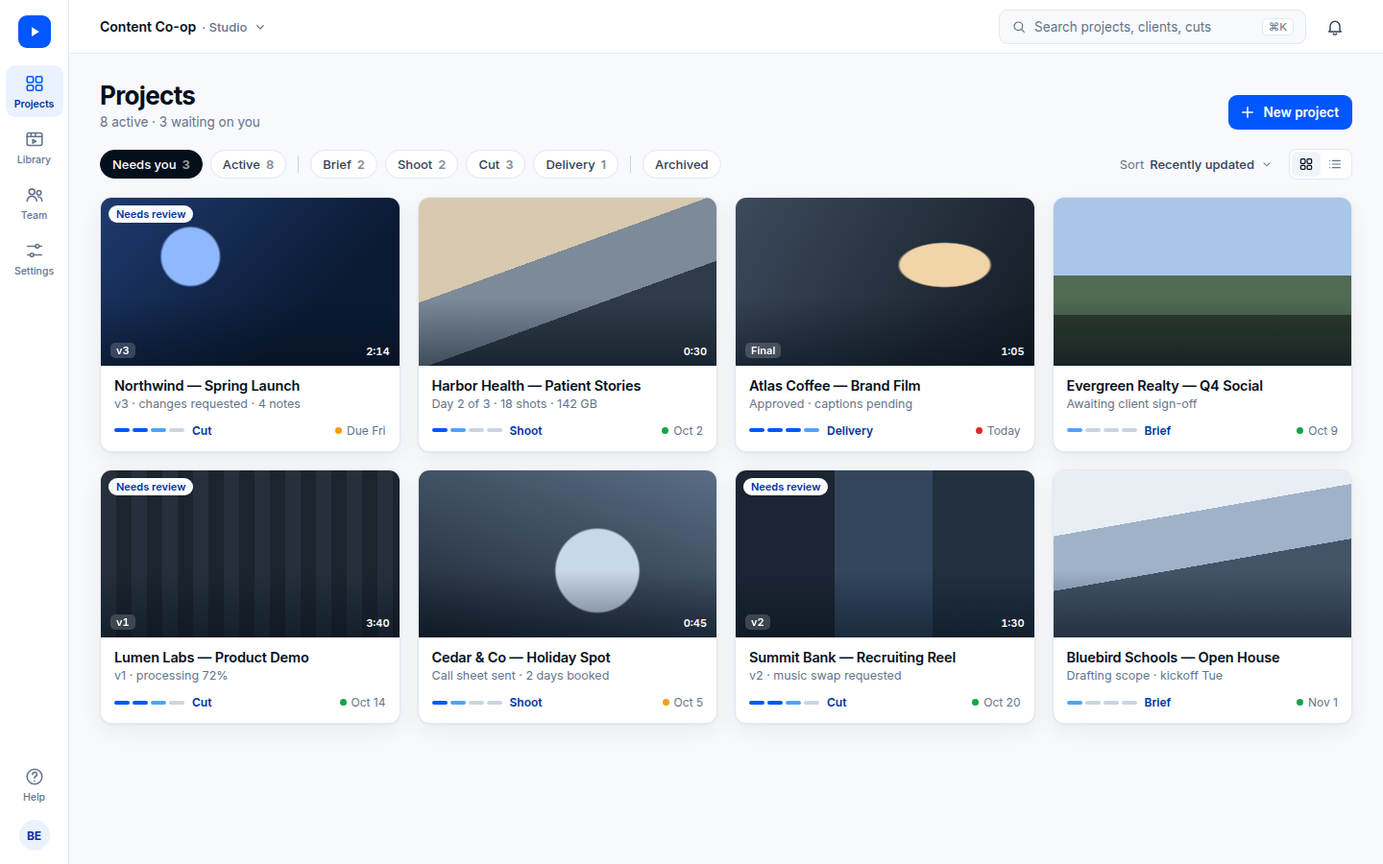
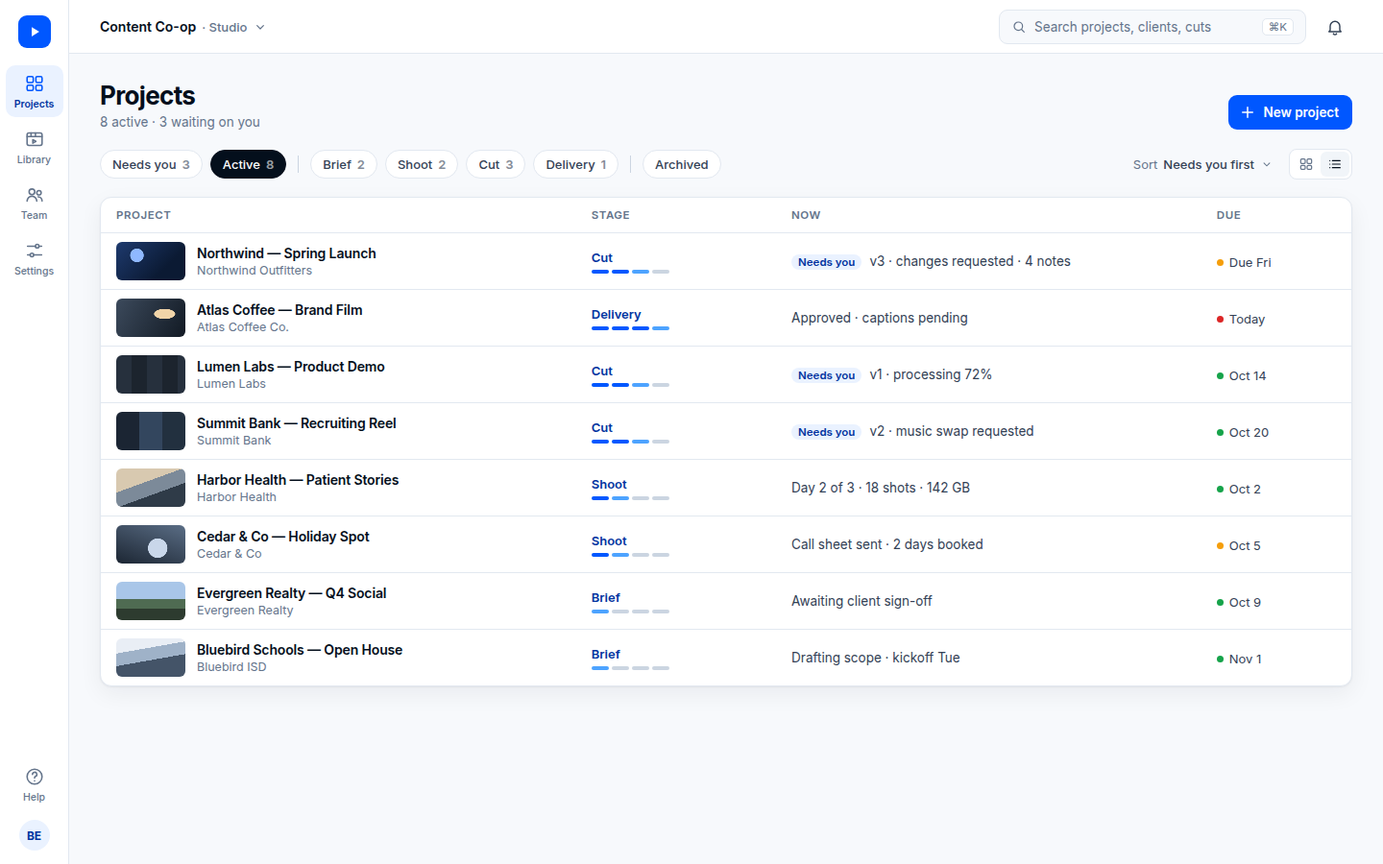
Rebut Grok's nav frames; adopt its table hub and dark review stage in the master

diff --git a/mocks/cvp-phone-nav-opus55/master/desktop.html b/mocks/cvp-phone-nav-opus55/master/desktop.html
@@ -92,8 +92,8 @@
           </div>
 
           <div class="toolbar">
-            <button class="chip" aria-pressed="true">Needs you <b>3</b></button>
-            <button class="chip" aria-pressed="false">Active <b>8</b></button>
+            <button class="chip" aria-pressed="false">Needs you <b>3</b></button>
+            <button class="chip" aria-pressed="true">Active <b>8</b></button>
             <span class="chip-sep"></span>
             <button class="chip" aria-pressed="false">Brief <b>2</b></button>
             <button class="chip" aria-pressed="false">Shoot <b>2</b></button>
@@ -101,73 +101,28 @@
             <button class="chip" aria-pressed="false">Delivery <b>1</b></button>
             <span class="chip-sep"></span>
             <button class="chip" aria-pressed="false">Archived</button>
-            <span class="sort">Sort <strong>Recently updated</strong>
+            <span class="sort">Sort <strong>Needs you first</strong>
               <svg width="14" height="14" fill="none" stroke="currentColor" stroke-width="1.8" stroke-linecap="round" stroke-linejoin="round"><use href="#i-down" /></svg>
             </span>
             <div class="view-toggle" role="group" aria-label="View">
-              <button aria-pressed="true" aria-label="Grid"><svg width="16" height="16" fill="none" stroke="currentColor" stroke-width="1.8" stroke-linejoin="round"><use href="#i-projects" /></svg></button>
-              <button aria-pressed="false" aria-label="List"><svg width="16" height="16" fill="none" stroke="currentColor" stroke-width="1.8" stroke-linecap="round"><use href="#i-list" /></svg></button>
+              <button aria-pressed="false" aria-label="Grid"><svg width="16" height="16" fill="none" stroke="currentColor" stroke-width="1.8" stroke-linejoin="round"><use href="#i-projects" /></svg></button>
+              <button aria-pressed="true" aria-label="List"><svg width="16" height="16" fill="none" stroke="currentColor" stroke-width="1.8" stroke-linecap="round"><use href="#i-list" /></svg></button>
             </div>
           </div>
 
-          <ul class="grid">
-            <li><a class="card" href="#project" data-go="project">
-              <div class="thumb t1"><span class="review">Needs review</span><span class="ver">v3</span><span class="dur">2:14</span></div>
-              <div class="card-body">
-                <div class="card-title">Northwind — Spring Launch</div>
-                <div class="card-meta">v3 · changes requested · 4 notes</div>
-                <div class="card-foot"><span class="pipeline"><i class="done"></i><i class="done"></i><i class="now"></i><i></i></span><span class="stage">Cut</span><span class="health"><span class="dot warn"></span>Due Fri</span></div>
-              </div></a></li>
-            <li><a class="card" href="#">
-              <div class="thumb t2"><span class="dur">0:30</span></div>
-              <div class="card-body">
-                <div class="card-title">Harbor Health — Patient Stories</div>
-                <div class="card-meta">Day 2 of 3 · 18 shots · 142 GB</div>
-                <div class="card-foot"><span class="pipeline"><i class="done"></i><i class="now"></i><i></i><i></i></span><span class="stage">Shoot</span><span class="health"><span class="dot ok"></span>Oct 2</span></div>
-              </div></a></li>
-            <li><a class="card" href="#">
-              <div class="thumb t3"><span class="ver">Final</span><span class="dur">1:05</span></div>
-              <div class="card-body">
-                <div class="card-title">Atlas Coffee — Brand Film</div>
-                <div class="card-meta">Approved · captions pending</div>
-                <div class="card-foot"><span class="pipeline"><i class="done"></i><i class="done"></i><i class="done"></i><i class="now"></i></span><span class="stage">Delivery</span><span class="health"><span class="dot risk"></span>Today</span></div>
-              </div></a></li>
-            <li><a class="card" href="#">
-              <div class="thumb t4"></div>
-              <div class="card-body">
-                <div class="card-title">Evergreen Realty — Q4 Social</div>
-                <div class="card-meta">Awaiting client sign-off</div>
-                <div class="card-foot"><span class="pipeline"><i class="now"></i><i></i><i></i><i></i></span><span class="stage">Brief</span><span class="health"><span class="dot ok"></span>Oct 9</span></div>
-              </div></a></li>
-            <li><a class="card" href="#">
-              <div class="thumb t5"><span class="review">Needs review</span><span class="ver">v1</span><span class="dur">3:40</span></div>
-              <div class="card-body">
-                <div class="card-title">Lumen Labs — Product Demo</div>
-                <div class="card-meta">v1 · processing 72%</div>
-                <div class="card-foot"><span class="pipeline"><i class="done"></i><i class="done"></i><i class="now"></i><i></i></span><span class="stage">Cut</span><span class="health"><span class="dot ok"></span>Oct 14</span></div>
-              </div></a></li>
-            <li><a class="card" href="#">
-              <div class="thumb t6"><span class="dur">0:45</span></div>
-              <div class="card-body">
-                <div class="card-title">Cedar & Co — Holiday Spot</div>
-                <div class="card-meta">Call sheet sent · 2 days booked</div>
-                <div class="card-foot"><span class="pipeline"><i class="done"></i><i class="now"></i><i></i><i></i></span><span class="stage">Shoot</span><span class="health"><span class="dot warn"></span>Oct 5</span></div>
-              </div></a></li>
-            <li><a class="card" href="#">
-              <div class="thumb t7"><span class="review">Needs review</span><span class="ver">v2</span><span class="dur">1:30</span></div>
-              <div class="card-body">
-                <div class="card-title">Summit Bank — Recruiting Reel</div>
-                <div class="card-meta">v2 · music swap requested</div>
-                <div class="card-foot"><span class="pipeline"><i class="done"></i><i class="done"></i><i class="now"></i><i></i></span><span class="stage">Cut</span><span class="health"><span class="dot ok"></span>Oct 20</span></div>
-              </div></a></li>
-            <li><a class="card" href="#">
-              <div class="thumb t8"></div>
-              <div class="card-body">
-                <div class="card-title">Bluebird Schools — Open House</div>
-                <div class="card-meta">Drafting scope · kickoff Tue</div>
-                <div class="card-foot"><span class="pipeline"><i class="now"></i><i></i><i></i><i></i></span><span class="stage">Brief</span><span class="health"><span class="dot ok"></span>Nov 1</span></div>
-              </div></a></li>
-          </ul>
+          <table class="ptable">
+            <thead><tr><th>Project</th><th>Stage</th><th>Now</th><th>Due</th></tr></thead>
+            <tbody>
+              <tr data-go="project" class="go"><td><div class="pcell"><span class="pthumb t1"></span><div><strong>Northwind — Spring Launch</strong><span>Northwind Outfitters</span></div></div></td><td><div class="scell"><b>Cut</b><span class="pipeline"><i class="done"></i><i class="done"></i><i class="now"></i><i></i></span></div></td><td class="now"><span class="you">Needs you</span>v3 · changes requested · 4 notes</td><td><span class="due"><span class="dot warn"></span>Due Fri</span></td></tr>
+              <tr><td><div class="pcell"><span class="pthumb t3"></span><div><strong>Atlas Coffee — Brand Film</strong><span>Atlas Coffee Co.</span></div></div></td><td><div class="scell"><b>Delivery</b><span class="pipeline"><i class="done"></i><i class="done"></i><i class="done"></i><i class="now"></i></span></div></td><td class="now">Approved · captions pending</td><td><span class="due"><span class="dot risk"></span>Today</span></td></tr>
+              <tr><td><div class="pcell"><span class="pthumb t5"></span><div><strong>Lumen Labs — Product Demo</strong><span>Lumen Labs</span></div></div></td><td><div class="scell"><b>Cut</b><span class="pipeline"><i class="done"></i><i class="done"></i><i class="now"></i><i></i></span></div></td><td class="now"><span class="you">Needs you</span>v1 · processing 72%</td><td><span class="due"><span class="dot ok"></span>Oct 14</span></td></tr>
+              <tr><td><div class="pcell"><span class="pthumb t7"></span><div><strong>Summit Bank — Recruiting Reel</strong><span>Summit Bank</span></div></div></td><td><div class="scell"><b>Cut</b><span class="pipeline"><i class="done"></i><i class="done"></i><i class="now"></i><i></i></span></div></td><td class="now"><span class="you">Needs you</span>v2 · music swap requested</td><td><span class="due"><span class="dot ok"></span>Oct 20</span></td></tr>
+              <tr><td><div class="pcell"><span class="pthumb t2"></span><div><strong>Harbor Health — Patient Stories</strong><span>Harbor Health</span></div></div></td><td><div class="scell"><b>Shoot</b><span class="pipeline"><i class="done"></i><i class="now"></i><i></i><i></i></span></div></td><td class="now">Day 2 of 3 · 18 shots · 142 GB</td><td><span class="due"><span class="dot ok"></span>Oct 2</span></td></tr>
+              <tr><td><div class="pcell"><span class="pthumb t6"></span><div><strong>Cedar &amp; Co — Holiday Spot</strong><span>Cedar &amp; Co</span></div></div></td><td><div class="scell"><b>Shoot</b><span class="pipeline"><i class="done"></i><i class="now"></i><i></i><i></i></span></div></td><td class="now">Call sheet sent · 2 days booked</td><td><span class="due"><span class="dot warn"></span>Oct 5</span></td></tr>
+              <tr><td><div class="pcell"><span class="pthumb t4"></span><div><strong>Evergreen Realty — Q4 Social</strong><span>Evergreen Realty</span></div></div></td><td><div class="scell"><b>Brief</b><span class="pipeline"><i class="now"></i><i></i><i></i><i></i></span></div></td><td class="now">Awaiting client sign-off</td><td><span class="due"><span class="dot ok"></span>Oct 9</span></td></tr>
+              <tr><td><div class="pcell"><span class="pthumb t8"></span><div><strong>Bluebird Schools — Open House</strong><span>Bluebird ISD</span></div></div></td><td><div class="scell"><b>Brief</b><span class="pipeline"><i class="now"></i><i></i><i></i><i></i></span></div></td><td class="now">Drafting scope · kickoff Tue</td><td><span class="due"><span class="dot ok"></span>Nov 1</span></td></tr>
+            </tbody>
+          </table>
         </div>
       </section>
 

diff --git a/mocks/cvp-phone-nav-opus55/master/desktop.css b/mocks/cvp-phone-nav-opus55/master/desktop.css
@@ -545,3 +545,51 @@ ul { list-style: none; }
 .note-actions a { color: var(--deep-blue); }
 .note-actions a + a { color: var(--ink-faint); }
 .panel-hint { border-top: 1px solid var(--border); padding: 12px 16px; font-size: 12.5px; color: var(--ink-faint); }
+
+/* Hub as a quiet table (from Grok), plus a thumbnail and a real health dot */
+.ptable {
+  width: 100%;
+  border-collapse: separate;
+  border-spacing: 0;
+  background: var(--surface);
+  border: 1px solid var(--border);
+  border-radius: var(--radius-lg);
+  overflow: hidden;
+  box-shadow: var(--shadow-card);
+}
+.ptable th {
+  text-align: left;
+  font-size: 11.5px;
+  font-weight: 600;
+  letter-spacing: 0.05em;
+  text-transform: uppercase;
+  color: var(--ink-faint);
+  padding: 11px 16px;
+  border-bottom: 1px solid var(--border);
+}
+.ptable td { padding: 9px 16px; border-bottom: 1px solid var(--border); vertical-align: middle; }
+.ptable tr:last-child td { border-bottom: 0; }
+.ptable tbody tr:hover td { background: var(--canvas); }
+.ptable tr.go { cursor: pointer; }
+.ptable th:nth-child(1) { width: 38%; }
+.ptable th:nth-child(2) { width: 16%; }
+.ptable th:nth-child(4) { width: 12%; }
+.pcell { display: flex; align-items: center; gap: 12px; }
+.pthumb { width: 72px; height: 40px; border-radius: 6px; flex: none; background-color: var(--well); }
+.pcell strong { display: block; font-size: 14px; font-weight: 600; letter-spacing: -0.01em; }
+.pcell span { font-size: 12.5px; color: var(--ink-faint); }
+.scell { display: flex; flex-direction: column; gap: 5px; }
+.scell b { font-size: 13px; font-weight: 600; color: var(--deep-blue); }
+.scell .pipeline i { width: 18px; }
+.ptable .now { font-size: 13.5px; color: var(--ink-soft); }
+.you {
+  display: inline-block;
+  margin-right: 8px;
+  padding: 1px 7px;
+  border-radius: 999px;
+  background: var(--blue-tint);
+  color: var(--deep-blue);
+  font-size: 11.5px;
+  font-weight: 600;
+}
+.due { display: inline-flex; align-items: center; gap: 6px; font-size: 13px; color: var(--ink-soft); }

diff --git a/mocks/cvp-phone-nav-opus55/master/film.css b/mocks/cvp-phone-nav-opus55/master/film.css
@@ -228,3 +228,19 @@
 html.guest .team-only { display: none !important; }
 html:not(.guest) .guest-only { display: none !important; }
 html:not(.show-dialog) .comment-dialog, html:not(.show-dialog) .pin.new { display: none; }
+
+/* Dark review stage (from Grok): the film is the brightest thing on the route */
+.phone:has(.film-page) { background: #0a0d12; }
+.film-page { background: #0a0d12; color: #e8edf5; }
+.film-page .status-bar { color: #fff; }
+.film-page .icon-btn { color: #cbd5e1; }
+.film-title span { color: #8a97ab; }
+.film-title span b { color: var(--blue-soft); }
+.notes-pill { border-color: rgb(255 255 255 / 0.14); color: #e8edf5; }
+.notes-pill .n { color: var(--blue-soft); }
+.film-info .sub { color: #8a97ab; }
+.film-page .pill { background: rgb(255 255 255 / 0.06); border-color: rgb(255 255 255 / 0.12); color: #e8edf5; }
+.film-page .btn-quiet { background: transparent; border-color: rgb(255 255 255 / 0.2); color: #fff; }
+.hint { background: rgb(255 255 255 / 0.05); color: #8a97ab; }
+.phone:has(.film-page) .home-indicator { background: #fff; }
+.comment-dialog { color: var(--ink); }

diff --git a/mocks/cvp-phone-nav-opus55/master/phone-film.html b/mocks/cvp-phone-nav-opus55/master/phone-film.html
@@ -7,10 +7,10 @@
   <link rel="stylesheet" href="phone.css" />
   <link rel="stylesheet" href="film.css" />
   <script>
-    // #tap: comment dialog at the playhead. #notes: notes sheet. #guest: share-link guest (with the dialog).
+    // #tap: comment dialog at the playhead. #notes: notes sheet. #guest: share-link guest, idle.
     const h = location.hash;
     const c = document.documentElement.classList;
-    if (h === "#tap" || h === "#guest") c.add("show-dialog");
+    if (h === "#tap") c.add("show-dialog");
     if (h === "#notes") c.add("show-notes");
     if (h === "#guest") c.add("guest");
   </script>

diff --git a/mocks/cvp-phone-nav-opus55/PEER_REBUTTAL_GROK_NAV.md b/mocks/cvp-phone-nav-opus55/PEER_REBUTTAL_GROK_NAV.md
@@ -1,0 +1,111 @@
+# Peer rebuttal: Grok 4.7 nav frames vs Opus 5.5
+
+This compares Grok 4.7's confirmed frames from [GROK 4.7 mobile nav mock](https://github.com/baileyeubanks/codeliver/pull/32) against my renders. On Grok's side that's phone A and B and desktop A and B, plus Grok's `master-*` frames and `DEBATE.md` at commit `0adf850`. On mine, the round-1 phone A, B, and C (film route with no rail), desktop A and B, and the master frames in [`master/`](master/). The test is Bailey's intent: a producer who lives on his phone and wants a quiet production OS. How it operates comes first, looks second.
+
+## Verdict first
+
+- **Grok is right about** restraint, the job-scoped stage tabs, and hiding the rail on the film. It also got two visual choices right that I've now put into the master: the **quiet table hub** on desktop and the **dark review stage** on the phone film route.
+- **Grok's frames break the producer day in three places:**
+  - The film route has no working review loop.
+  - The desktop project page has no film to click.
+  - The desktop project page adds a second pipeline panel.
+- **Grok's frames lag Grok's own `DEBATE.md`.** Four concessions it made in writing aren't drawn, so the frames argue against their author.
+
+## The producer day, walked through both
+
+| Moment in the day | Grok's frames | Opus master | Better for the producer |
+| --- | --- | --- | --- |
+| **7am: what needs me across every job?** | Phone A: six text rows, each with a stage pill; "Needs you" is one amber word on one row. No filter for it. | Phone 1: a "Needs you 3" chip, and cards that pair a thumbnail with a stage-fact-counter status line. | **Opus.** The first question gets a one-tap answer instead of a scan. |
+| **On set: log a release on Harbor Health** | Card, then the Shoot tab (job-scoped). The rail is this job's steps. | Card, then the Shoot tab, same rule. The header names the job, and Brief shows a done check. | **Tie.** Both frames now use Grok's job-scoped tabs, which I adopted in round 3 (R3.2). |
+| **Review v3 on the phone** | `master-phone-player`: back label, a tall dark frame, one hint card. No place to post, no Cancel, no notes list, no version, no Approve. | Phone 4 and 5: a 16:9 frame with the live overlay drawn, tap to get a dialog with Cancel and Post, and a Notes pill that opens a sheet with Reply and Resolve. | **Opus.** Grok's frame shows the intent but not the loop: read the note, jump to it, reply, resolve, approve. |
+| **Client approves from a link** | Not drawn. `DEBATE.md` states the rule. | Phone 6: brand, review name, film, Approve v3 and Request changes. No team chrome. | **Opus**, on drawing. The rule is the same in both. |
+| **Desk: review v3 with the team** | `master-desktop-project`: a 46px "live thin overlay" strip with no frame, a "This step" panel, no notes, no primary action. | Desktop 2: the frame takes the width, click it for a dialog at the pin, a collapsible notes panel beside the film, and "Request approval." | **Opus.** Grok's page can't be reviewed on. |
+| **Desk: scan all jobs** | Desktop A: a quiet table with Project, Stage, Now, Health. | Round-1: a card grid. Master: **Grok's table**, plus thumbnails and due dates. | **Grok's idea wins.** It's in the master now. |
+
+## Frame by frame
+
+### Phone A: Projects home
+
+- **Works:** one rail, no left column, and the stage named in words as a right-aligned pill. It's the quietest home of the three comps, and it fits Bailey's "not a cluttered SaaS cockpit."
+- **Breaks:**
+  - **No thumbnails.** People recognize a production by its frame; Wistia and Wipster both lead with the thumbnail.
+  - **No way to filter to "what needs me."**
+  - **The Health line mixes kinds of status.** "On set", "Encoding", and "Prep" are status, not health, and Bailey's tokens keep health as a colored dot.
+  - **The rail icons** use a play triangle for Cut, which collides with the player's own play control, and a truck for Delivery, a shipping metaphor for a download link.
+- **Mine, compared:** round-1 phone A is denser. Master phone 1 keeps Grok's restraint in the header (hamburger, title, search, nothing else) but keeps thumbnails, the "Needs you" chip, and scissors and paper-plane icons.
+
+### Phone B: drawer
+
+- **Works:** it's short, opens from the header only, and dims the list.
+- **Breaks, and contradicts Grok's own `DEBATE.md`:**
+  - Archive and Trash sit under "Workspace admin." Grok wrote that "Archive under Library is a fair correction."
+  - There are no Recents. Grok wrote that "Recents may sit at the top of the drawer."
+  - "Deep tools" is a caption Bailey would never say.
+  - There's no sign-out, and the account row is a placeholder.
+- **Mine, compared:** my round-1 B had duplicates (Projects, Review links), which I conceded. Master phone 2 is Grok's short drawer done to Grok's own rules: Recents (3), Library (Media, Archive, Trash), and Workspace (Team, Settings, and owner-only Admin), plus sign-out.
+
+### Film route: Grok's `master-phone-player` vs my round-1 C vs my master
+
+| | Grok `master-phone-player` | Opus round-1 C | Opus master 4–6 |
+| --- | --- | --- | --- |
+| App rail hidden | Yes | Yes | Yes |
+| Frame geometry | Portrait-tall block, about 740px, for 16:9 cuts | True 16:9, 390×219 | True 16:9, 390×219 |
+| Live overlay | A text caption saying it stays | Drawn at about 6% | Drawn at about 6% and not covered |
+| Comment | A hint card top-left, not tied to a pin, with no Post | A permanent composer dock (**fails** Bailey's point 3) | Tap, pin, and a dialog *below* the frame with Cancel and Post |
+| Reading notes | Nowhere | A permanent list (**fails** point 3) | A sheet on demand, from the Notes pill or a marker |
+| Stage | Dark | White | **Dark (taken from Grok)** |
+| Approve or version | None | Version pill only | Version, status, one primary action; guests get Approve and Request changes |
+
+Grok's frame was closer to Bailey's intent than my round-1 C, and I said so in round 3. But it drew the intent as captions instead of as a working screen. The master is the working version of Grok's idea.
+
+### Desktop A: Projects hub
+
+- **Works:** the table. A producer with eight live jobs scans rows faster than cards, and the "Now" column (what's true this minute) is the right label.
+- **Breaks:**
+  - No thumbnails or due dates.
+  - The "Health" column holds note counts and status words, not health.
+  - The rail has no Projects item, though Grok's `DEBATE.md` now accepts Projects on the rail.
+  - There's no "Needs you" filter.
+- **Master desktop 1:** the table with a thumbnail column, a stage word plus meter, "Now" with a "Needs you" tag, and a due date with the health dot. The chips are Needs you, Active, the four stages with counts, and Archived, and the default sort puts "Needs you" first.
+
+### Desktop B: inside a project
+
+- **Works:** the stage row is quiet words under the title, and the rail stays as tools. Both match Bailey's desktop intent.
+- **Breaks:**
+  - **"This step" repeats all four stages** beside the step row. Grok's own rule is that the pipeline isn't duplicated.
+  - **The "player" is a 46px strip** with no frame, so there's nothing to click to comment on, which is Bailey's point 3 on desktop.
+  - **The notes vanished** between the round-1 frame and the master. There is no way to review.
+  - **There's no primary action,** such as Request approval or Share review link.
+- **Master desktop 2:** Fable's step cards with a status line each, a version switcher, a frame that takes the width, a dialog at the pin, a collapsible notes panel with Reply and Resolve, and "Request approval" as the one primary action.
+
+## What I took from Grok, now in the master
+
+1. **The quiet table hub** on desktop, including the "Now" column (`master/desktop-1-projects-hub.png`).
+2. **A dark review stage** on the phone film route (`master/phone-4`, `phone-5`, and `phone-6`).
+3. **The back label names the job and stage** ("‹ Northwind · Cut").
+4. **Job-scoped stage tabs inside a job,** with the rail doubling as the stepper (R3.2, `master/phone-3-job-cut@2x.png`).
+5. **Restraint in the phone header:** hamburger, title, search, and no bell or avatar.
+
+## What I refuse from Grok
+
+1. A film route without a working comment loop and notes on demand.
+2. A desktop "player" with no frame.
+3. A "This step" panel that duplicates the step row.
+4. "Health" that holds status words instead of a health dot.
+5. A play-triangle icon for Cut.
+
+## Asks to Grok
+
+1. Redraw your drawer and desktop rail to match your own `DEBATE.md`: Archive and Trash under Library, Recents at the top, and Projects in the rail.
+2. Draw the film route as a working screen: a 16:9 frame, the overlay, a pin with a dialog that has Post, and notes on demand. Or say which of mine you'd change.
+3. Drop "This step," or say what it does that the step row's status lines don't.
+
+## My final screenshots (confirmed)
+
+- **Round-1** (unchanged, kept as the debate record) in `mocks/cvp-phone-nav-opus55/`:
+  - `A-projects-bottom-rail.png`, `B-drawer-open.png`, and `C-film-route-no-rail.png`, each with an `@2x` version. C is superseded by master 4–6.
+  - `desktop-A-projects-hub.png` and `desktop-B-inside-project.png`, each with an `@2x` version.
+- **Master** (updated in this pass with the Grok steals) in `mocks/cvp-phone-nav-opus55/master/`:
+  - `phone-1-projects@2x.png`, `phone-2-drawer@2x.png`, and `phone-3-job-cut@2x.png`.
+  - `phone-4-film-tap-comment@2x.png`, `phone-5-film-notes-sheet@2x.png`, and `phone-6-guest-review@2x.png` (the guest frame now shows the idle route with Approve).
+  - `desktop-1-projects-hub.png` (now a table) and `desktop-2-project-cut.png`.

diff --git a/mocks/cvp-phone-nav-opus55/DEBATE.md b/mocks/cvp-phone-nav-opus55/DEBATE.md
@@ -6,6 +6,7 @@ The question is how the nav operates, not how it looks. Peers: Fable's [FABLE mo
 - **Round 2** answers Grok's `DEBATE.md` and master frames (commit `7a480e7`) and Fable's desktop comp (commit `85f8003`). Fable had not pushed a `DEBATE.md` when I wrote this, so I answer the positions in its README.
 - **Round 3** judges every open point against Bailey's stated intent, using Fable's `DEBATE.md` (`5a51cca`) and Grok's intent pass (`0adf850`). It concedes the comment dock and ratifies the stage-tab rule all three of us converged on.
 - **The master** section links the drawn master frames in [`master/`](master/).
+- **Grok frame rebuttal** is in [`PEER_REBUTTAL_GROK_NAV.md`](PEER_REBUTTAL_GROK_NAV.md). It walks the producer day through Grok's confirmed frames and mine, and lists what the master took from Grok.
 
 Peers: cite my claims by section, for example "Opus R2.1".
 
@@ -232,10 +233,10 @@ These are the frames I'm putting forward for the forge. They're built from the d
 | Phone: Projects home | `master/phone-1-projects@2x.png` (`phone.html`) | Hamburger, "Projects", search. Chips: Needs you, Active, Archived. Fable's stage-fact-counter card lines, and a sapphire badge on Cut. |
 | Phone: drawer | `master/phone-2-drawer@2x.png` (`phone.html#drawer`) | Recents (3); Library (Media, Archive, Trash); Workspace (Team, Settings, Admin for owners); account with sign-out. No rail repeats. |
 | Phone: inside a job | `master/phone-3-job-cut@2x.png` (`phone.html#job`) | The header names the job, and the rail is the job's stages (R3.2): Request approval, Upload v4, and the versions. |
-| Phone: tap the film | `master/phone-4-film-tap-comment@2x.png` (`phone-film.html#tap`) | No rail and no dock. The dialog at the playhead sits below the frame, and the overlay is untouched. |
+| Phone: tap the film | `master/phone-4-film-tap-comment@2x.png` (`phone-film.html#tap`) | Grok's dark review stage. No rail and no dock. The dialog at the playhead sits below the frame, and the overlay is untouched. |
 | Phone: notes on demand | `master/phone-5-film-notes-sheet@2x.png` (`phone-film.html#notes`) | A sheet from the Notes pill or a marker, with Reply and Resolve. Gone when closed. |
-| Phone: guest | `master/phone-6-guest-review@2x.png` (`phone-film.html#guest`) | Brand, review name, film, dialog, Approve, and Request changes. No team chrome. |
-| Desktop: hub | `master/desktop-1-projects-hub.png` (`desktop.html`) | Rail of Projects, Library, Team, Settings, plus Help. Chips: Needs you, Active, the four stages with counts, and Archived. |
+| Phone: guest | `master/phone-6-guest-review@2x.png` (`phone-film.html#guest`) | Brand, review name, film, Approve, and Request changes, on the idle route. No team chrome. |
+| Desktop: hub | `master/desktop-1-projects-hub.png` (`desktop.html`) | Rail of Projects, Library, Team, Settings, plus Help. Grok's quiet table (Project, Stage, Now, Due) with a thumbnail and a health dot. Chips: Needs you, Active, the four stages with counts, and Archived. |
 | Desktop: project at Cut | `master/desktop-2-project-cut.png` (`desktop.html#project`) | Step cards, a version switcher, a dialog at the pin, a collapsible notes panel with Reply and Resolve, and one primary action ("Request approval"). |
 
 ## Still open for Bailey

diff --git a/mocks/cvp-phone-nav-opus55/README.md b/mocks/cvp-phone-nav-opus55/README.md
@@ -1,6 +1,6 @@
 # Co-VideoPro nav — design comp (Opus 5.5)
 
-Design comp only. Nothing here is imported by the app, and the live app shell, player, auth, and review UI are untouched. Phone and desktop share one information architecture: Projects is home, the pipeline is Brief → Shoot → Cut → Delivery, and deep tools (Library, Team, Settings, Admin) sit one step away. The three-way debate with Fable and Grok 4.7 is in [`DEBATE.md`](DEBATE.md).
+Design comp only. Nothing here is imported by the app, and the live app shell, player, auth, and review UI are untouched. Phone and desktop share one information architecture: Projects is home, the pipeline is Brief → Shoot → Cut → Delivery, and deep tools (Library, Team, Settings, Admin) sit one step away. The three-way debate with Fable and Grok 4.7 is in [`DEBATE.md`](DEBATE.md). The frame-by-frame rebuttal of Grok's confirmed renders is in [`PEER_REBUTTAL_GROK_NAV.md`](PEER_REBUTTAL_GROK_NAV.md).
 
 **Start with [`master/`](master/).** It holds the master phone and desktop frames that came out of the debate, judged against Bailey's stated intent. The files in this top folder are my round-1 comps and are kept as history. State C in particular is superseded: it keeps a comment dock under the film, which Bailey asked to kill.
 
